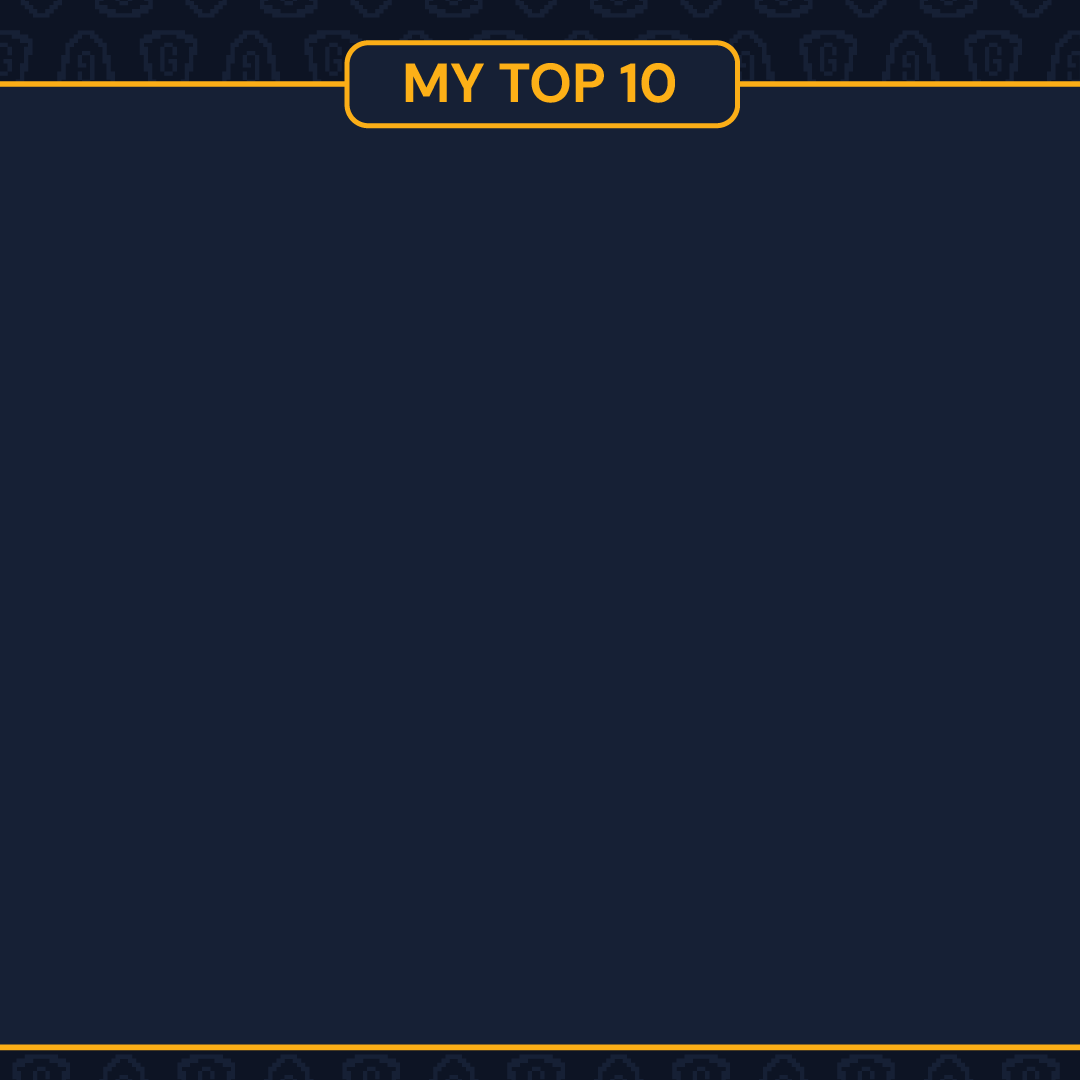
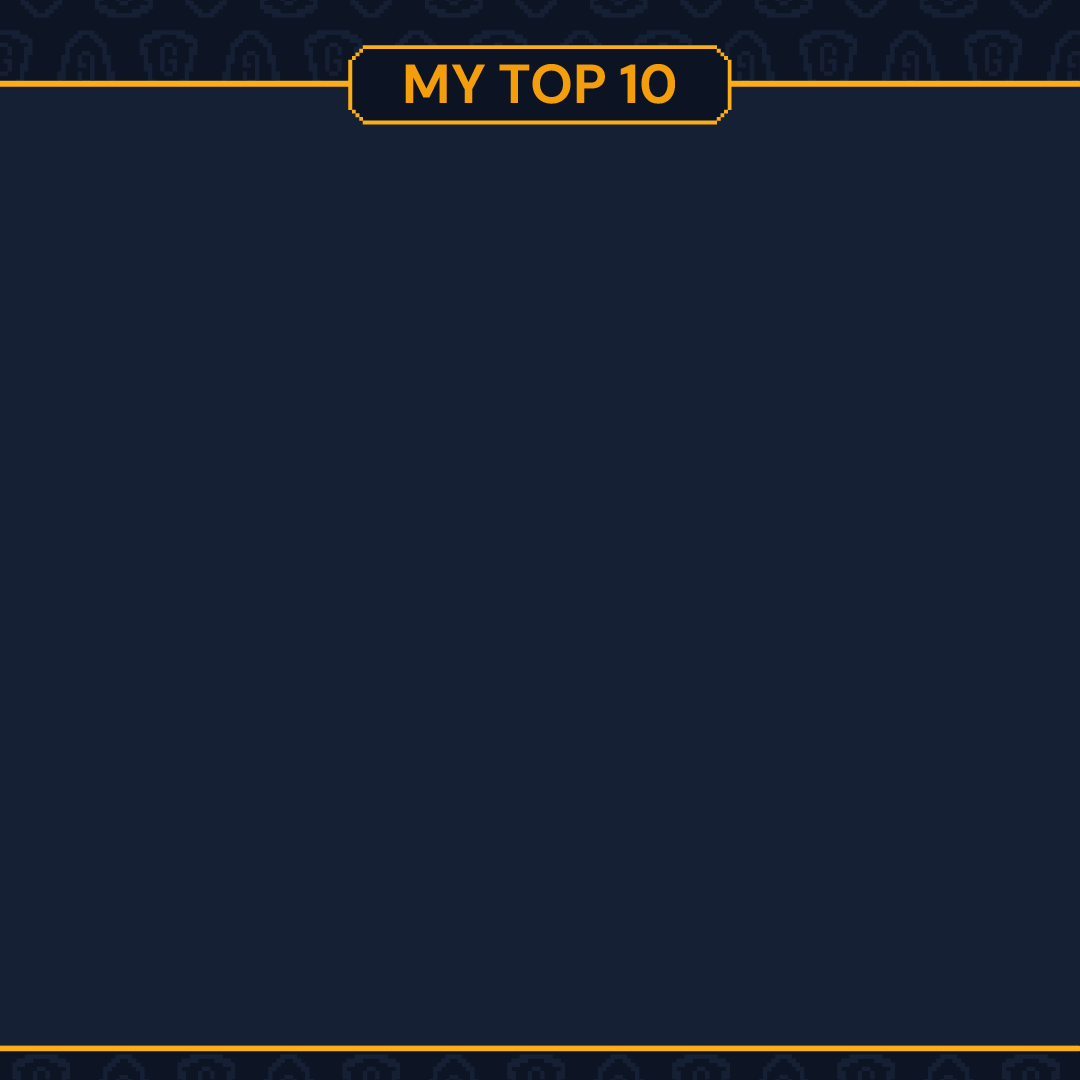
Local changes before merge

Changed region(s): [[0.0, 0.9472, 1.0, 0.9778], [0.3056, 0.0306, 0.7028, 0.1222]]

diff --git a/src/pages/GamingSessionsPage.jsx b/src/pages/GamingSessionsPage.jsx
@@ -64,10 +64,12 @@ function GamingSessionsPage({ currentUser, setActivePage, isMobile }) {
       .lt("scheduled_at", weekEnd.toISOString())
       .order("scheduled_at", { ascending: true });
 
-    const sessionsWithGuild = (sessionData || []).map(s => ({
-      ...s,
-      guild_name: guildNameMap[s.guild_id] || "",
-    }));
+    const sessionsWithGuild = (sessionData || [])
+      .map(s => ({ ...s, guild_name: guildNameMap[s.guild_id] || "" }))
+      .filter(s => {
+        const sessionEnd = new Date(new Date(s.scheduled_at).getTime() + (s.duration_minutes || 60) * 60000);
+        return sessionEnd > now;
+      });
     setSessions(sessionsWithGuild);
 
     if (sessionsWithGuild.length > 0) {

diff --git a/src/pages/GuildPortal.jsx b/src/pages/GuildPortal.jsx
@@ -133,7 +133,10 @@ function GuildPortal({ guildId, isMobile, currentUser, setActivePage, setCurrent
       .gte("scheduled_at", localMidnight.toISOString())
       .lt("scheduled_at", weekEnd.toISOString())
       .order("scheduled_at", { ascending: true });
-    setSessions(data || []);
+    setSessions((data || []).filter(s => {
+      const sessionEnd = new Date(new Date(s.scheduled_at).getTime() + (s.duration_minutes || 60) * 60000);
+      return sessionEnd > now;
+    }));
     if (data && data.length > 0 && currentUser?.id) {
       const sessionIds = data.map(s => s.id);
       const { data: rsvpData } = await supabase.from("guild_session_rsvps").select("*").in("session_id", sessionIds);
